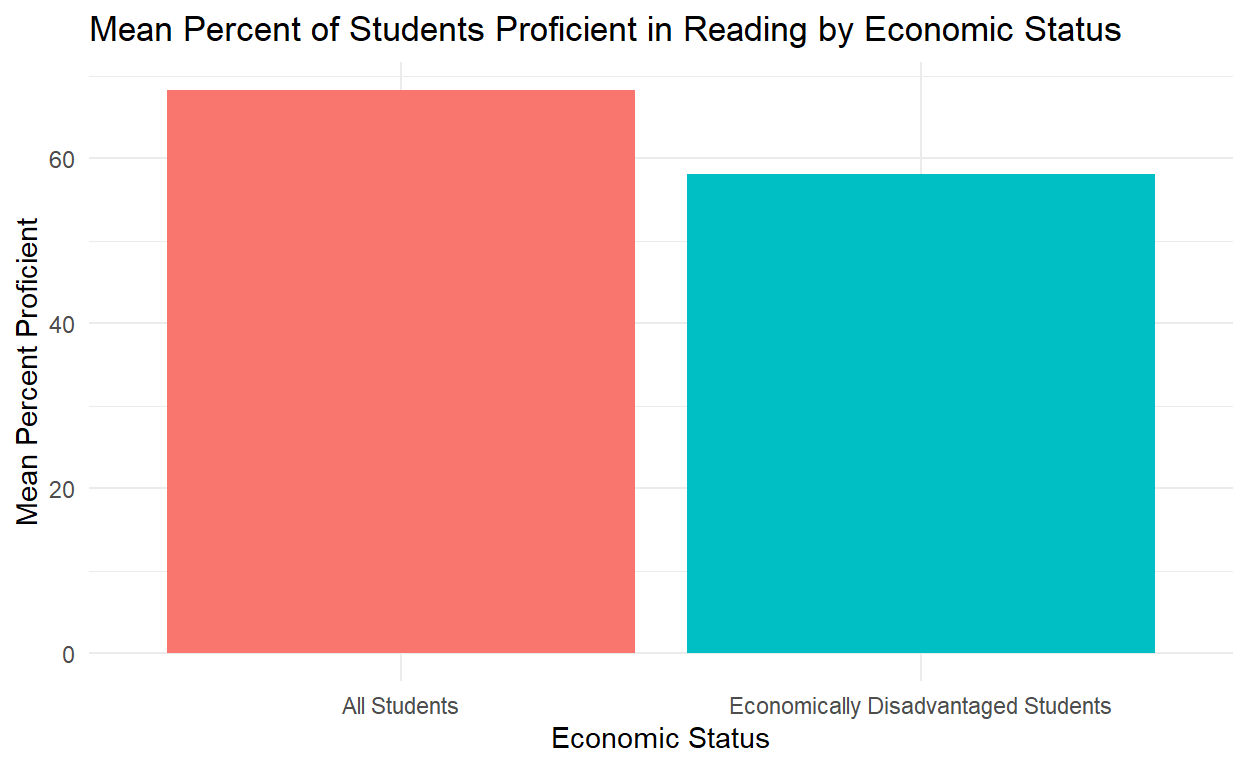
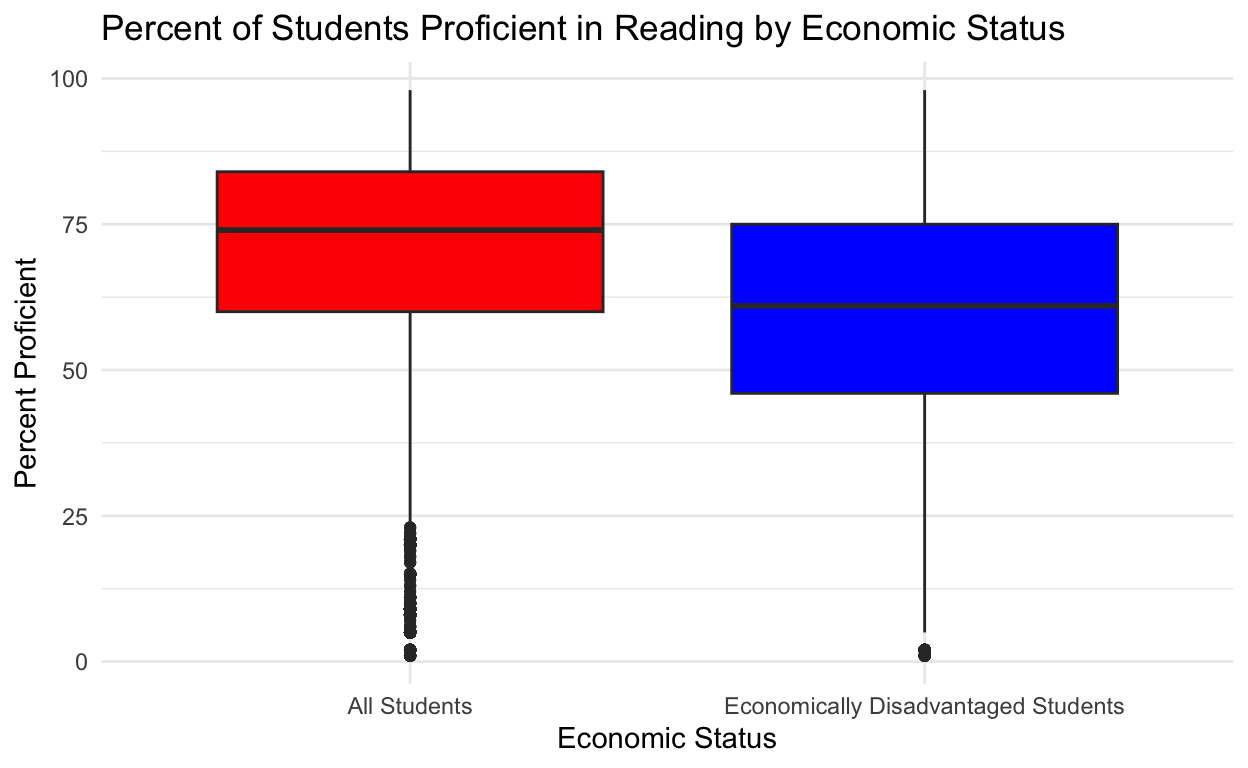
Write-up and visual improvements

diff --git a/_posts/2025-03-08-all-students/all-students.html b/_posts/2025-03-08-all-students/all-students.html
@@ -90,7 +90,7 @@ code span.wa { color: #5e5e5e; font-style: italic; } /* Warning */
   <!--radix_placeholder_meta_tags-->
   <title>All Students</title>
 
-  <meta property="description" itemprop="description" content="Prociency Scores: Compring all students to economically disadvantaged students"/>
+  <meta property="description" itemprop="description" content="Proficiency Scores: Comparing all students to economically disadvantaged students"/>
 
 
   <!--  https://schema.org/Article -->
@@ -101,24 +101,24 @@ code span.wa { color: #5e5e5e; font-style: italic; } /* Warning */
   <!--  https://developers.facebook.com/docs/sharing/webmasters#markup -->
   <meta property="og:title" content="All Students"/>
   <meta property="og:type" content="article"/>
-  <meta property="og:description" content="Prociency Scores: Compring all students to economically disadvantaged students"/>
+  <meta property="og:description" content="Proficiency Scores: Comparing all students to economically disadvantaged students"/>
   <meta property="og:locale" content="en_US"/>
 
   <!--  https://dev.twitter.com/cards/types/summary -->
   <meta property="twitter:card" content="summary"/>
   <meta property="twitter:title" content="All Students"/>
-  <meta property="twitter:description" content="Prociency Scores: Compring all students to economically disadvantaged students"/>
+  <meta property="twitter:description" content="Proficiency Scores: Comparing all students to economically disadvantaged students"/>
 
   <!--/radix_placeholder_meta_tags-->
   <!--radix_placeholder_rmarkdown_metadata-->
 
   <script type="text/json" id="radix-rmarkdown-metadata">
-  {"type":"list","attributes":{"names":{"type":"character","attributes":{},"value":["title","description","author","date","output"]}},"value":[{"type":"character","attributes":{},"value":["All Students"]},{"type":"character","attributes":{},"value":["Prociency Scores: Compring all students to economically disadvantaged students\n"]},{"type":"list","attributes":{},"value":[{"type":"list","attributes":{"names":{"type":"character","attributes":{},"value":["name","url"]}},"value":[{"type":"character","attributes":{},"value":["Aden Bhagwat, Emily Mingus, Erick Njue"]},{"type":"character","attributes":{},"value":["https://adenb0220.github.io/EDLD_652_Final/"]}]}]},{"type":"character","attributes":{},"value":["2025-03-03"]},{"type":"list","attributes":{"names":{"type":"character","attributes":{},"value":["distill::distill_article"]}},"value":[{"type":"list","attributes":{"names":{"type":"character","attributes":{},"value":["self_contained"]}},"value":[{"type":"logical","attributes":{},"value":[false]}]}]}]}
+  {"type":"list","attributes":{"names":{"type":"character","attributes":{},"value":["title","description","author","date","output"]}},"value":[{"type":"character","attributes":{},"value":["All Students"]},{"type":"character","attributes":{},"value":["Proficiency Scores: Comparing all students to economically disadvantaged students\n"]},{"type":"list","attributes":{},"value":[{"type":"list","attributes":{"names":{"type":"character","attributes":{},"value":["name","url"]}},"value":[{"type":"character","attributes":{},"value":["Aden Bhagwat, Emily Mingus, Erick Njue"]},{"type":"character","attributes":{},"value":["https://adenb0220.github.io/EDLD_652_Final/"]}]}]},{"type":"character","attributes":{},"value":["2025-03-03"]},{"type":"list","attributes":{"names":{"type":"character","attributes":{},"value":["distill::distill_article"]}},"value":[{"type":"list","attributes":{"names":{"type":"character","attributes":{},"value":["self_contained"]}},"value":[{"type":"logical","attributes":{},"value":[false]}]}]}]}
   </script>
   <!--/radix_placeholder_rmarkdown_metadata-->
   
   <script type="text/json" id="radix-resource-manifest">
-  {"type":"character","attributes":{},"value":["all-students_files/anchor-4.2.2/anchor.min.js","all-students_files/bowser-1.9.3/bowser.min.js","all-students_files/distill-2.2.21/template.v2.js","all-students_files/figure-html5/unnamed-chunk-2-1.png","all-students_files/figure-html5/unnamed-chunk-3-1.png","all-students_files/figure-html5/unnamed-chunk-4-1.png","all-students_files/figure-html5/unnamed-chunk-5-1.png","all-students_files/header-attrs-2.29/header-attrs.js","all-students_files/jquery-3.6.0/jquery-3.6.0.js","all-students_files/jquery-3.6.0/jquery-3.6.0.min.js","all-students_files/jquery-3.6.0/jquery-3.6.0.min.map","all-students_files/popper-2.6.0/popper.min.js","all-students_files/tippy-6.2.7/tippy-bundle.umd.min.js","all-students_files/tippy-6.2.7/tippy-light-border.css","all-students_files/tippy-6.2.7/tippy.css","all-students_files/tippy-6.2.7/tippy.umd.min.js","all-students_files/webcomponents-2.0.0/webcomponents.js"]}
+  {"type":"character","attributes":{},"value":["all-students_files/anchor-4.2.2/anchor.min.js","all-students_files/bowser-1.9.3/bowser.min.js","all-students_files/distill-2.2.21/template.v2.js","all-students_files/figure-html5/unnamed-chunk-2-1.png","all-students_files/figure-html5/unnamed-chunk-3-1.png","all-students_files/figure-html5/unnamed-chunk-4-1.png","all-students_files/figure-html5/unnamed-chunk-5-1.png","all-students_files/figure-html5/unnamed-chunk-6-1.png","all-students_files/header-attrs-2.29/header-attrs.js","all-students_files/jquery-3.6.0/jquery-3.6.0.js","all-students_files/jquery-3.6.0/jquery-3.6.0.min.js","all-students_files/jquery-3.6.0/jquery-3.6.0.min.map","all-students_files/popper-2.6.0/popper.min.js","all-students_files/tippy-6.2.7/tippy-bundle.umd.min.js","all-students_files/tippy-6.2.7/tippy-light-border.css","all-students_files/tippy-6.2.7/tippy.css","all-students_files/tippy-6.2.7/tippy.umd.min.js","all-students_files/webcomponents-2.0.0/webcomponents.js"]}
   </script>
   <!--radix_placeholder_navigation_in_header-->
   <!--/radix_placeholder_navigation_in_header-->
@@ -1521,7 +1521,7 @@ code span.wa { color: #5e5e5e; font-style: italic; } /* Warning */
 <!--radix_placeholder_front_matter-->
 
 <script id="distill-front-matter" type="text/json">
-{"title":"All Students","description":"Prociency Scores: Compring all students to economically disadvantaged students","authors":[{"author":"Aden Bhagwat, Emily Mingus, Erick Njue","authorURL":"https://adenb0220.github.io/EDLD_652_Final/","affiliation":"&nbsp;","affiliationURL":"#","orcidID":""}],"publishedDate":"2025-03-03T00:00:00.000-08:00","citationText":"Njue, 2025"}
+{"title":"All Students","description":"Proficiency Scores: Comparing all students to economically disadvantaged students","authors":[{"author":"Aden Bhagwat, Emily Mingus, Erick Njue","authorURL":"https://adenb0220.github.io/EDLD_652_Final/","affiliation":"&nbsp;","affiliationURL":"#","orcidID":""}],"publishedDate":"2025-03-03T00:00:00.000-08:00","citationText":"Njue, 2025"}
 </script>
 
 <!--/radix_placeholder_front_matter-->
@@ -1535,7 +1535,7 @@ code span.wa { color: #5e5e5e; font-style: italic; } /* Warning */
 
 <!--radix_placeholder_categories-->
 <!--/radix_placeholder_categories-->
-<p><p>Prociency Scores: Compring all students to economically disadvantaged students</p></p>
+<p><p>Proficiency Scores: Comparing all students to economically disadvantaged students</p></p>
 </div>
 
 <div class="d-byline">
@@ -1548,24 +1548,31 @@ code span.wa { color: #5e5e5e; font-style: italic; } /* Warning */
 <div class="layout-chunk" data-layout="l-body">
 
 </div>
-<p>To answer question 1 that examines the relationship between economic status or Social Economic Status (SES) and the proficiency scores, we first examine the relationship between the proficiency scores of all the students and those of students from economically disadvantaged students. Figure 1 shows the Math proficiency scores of all the students against those of economically disadvantaged students and Figure 2 shows the mean percent of the students in Math by their economic status. The Math proficiency for economically disadvantaged students is lower than that of all students.</p>
-<p><strong>Figure 1</strong></p>
+<p>We began our study by comparing the relationship between Social Economic Status (SES) and the proficiency scores (Math and Reading) for all students as compared to those of economically disadvantaged students. To understand the relationship, we first focused on Math proficiency. We used Figure 1 which is a bar plot showing the Math proficiency scores of all the students against those of economically disadvantaged students.</p>
+<p><strong>Figure 1 </strong></p>
 <div class="layout-chunk" data-layout="l-body">
 <p><img src="all-students_files/figure-html5/unnamed-chunk-2-1.png" width="624" /></p>
 </div>
+<p>As seen in Figure 1, on average, students from All Students are more proficient in Math compared to Economically Disadvantaged Students. The All Students group has a mean proficiency of around 65%, while the Economically Disadvantaged Students group has a mean proficiency closer to 55%. The large difference in the length of the bars highlights the disparity between the two groups in terms of math proficiency.</p>
+<p>To understand the relationship in Math proficiency for All Students group against the Economically Disadvantaged Student group in a better way we used a box plot in Figure 2.</p>
 <p><strong>Figure 2</strong></p>
 <div class="layout-chunk" data-layout="l-body">
 <p><img src="all-students_files/figure-html5/unnamed-chunk-3-1.png" width="624" /></p>
 </div>
+<p>As seen in Figure 2, on average, students in the All Students group perform better than those in the Economically Disadvantaged group with both groups showing variation in proficiency. In the All students group, there are outliers that scored significantly lower than the majority. We concluded, on average, the Math proficiency for economically disadvantaged students is lower than that of all students. We then wanted to understand the relationship in Reading proficiency for All Students group as compared to the Economically Disadvantaged Students group. To examine this relationship, we first used a bar plot to visualize their distribution as presented in Figure 3.</p>
 <p>Figure 3 shows the Reading proficiency scores of all the students against those of economically disadvantaged students and Figure 4 shows shows the mean percent of the students in Reading by their economic status. All students perform better than economically disadvantaged students.</p>
-<strong>Figure 3</strong>
+<p><strong>Figure 3</strong></p>
 <div class="layout-chunk" data-layout="l-body">
 <p><img src="all-students_files/figure-html5/unnamed-chunk-4-1.png" width="624" /></p>
 </div>
+<p>As figure 3 shows, on average, All Students perform better in reading than those from economically disadvantaged backgrounds. The All Students group has a mean proficiency above 60%, while the Economically Disadvantaged Students group is slightly above 50%. This suggests a persistent achievement gap between the two groups.The proficiency gap appears similar to the math proficiency although the reading scores might be slightly higher than math scores for both groups.To understand the relationship between reading proficiency and economic status in a deeper sense, we used a box plot as shown in Figure 4.</p>
 <p><strong>Figure 4</strong></p>
 <div class="layout-chunk" data-layout="l-body">
 <p><img src="all-students_files/figure-html5/unnamed-chunk-5-1.png" width="624" /></p>
 </div>
+<p>Figure 4 suggest that, on average, the All Students group perform better in reading compared to Economically Disadvantaged Students where the All Students group having slightly higher overall scores. The Economically Disadvantaged Students group has a lower minimum score, meaning some students in this category are performing much lower than their peers. There seem to be more outliers in the All Students group than the Economically Disadvantaged Students group.</p>
+<p>We concluded that there is an achievement gap that exists between Math and Reading proficiencies in both groups where Economically Disadvantaged Students consistently score lower than the All Students group possibly suggesting that economic status plays a significant role in academic performance. There is a greater score variability among the Economically Disadvantaged Students group where some students in this group perform well, but a significant number struggle, as seen in the outliers. The proficiency gap in reading mirrors the gap in math, suggesting that the issue is not subject-specific.</p>
+<p>However, before we made some further conclusions and implications, we wanted to know if the disparities seen in the results above were consistent across the grade levels. leading us to examine the relationship between SES and proficiency score in different grade levels.</p>
 <div class="sourceCode" id="cb1"><pre class="sourceCode r distill-force-highlighting-css"><code class="sourceCode r"></code></pre></div>
 <!--radix_placeholder_article_footer-->
 <!--/radix_placeholder_article_footer-->

diff --git a/docs/posts/2025-03-08-all-students/index.html b/docs/posts/2025-03-08-all-students/index.html
@@ -90,7 +90,7 @@ code span.wa { color: #5e5e5e; font-style: italic; } /* Warning */
   <!--radix_placeholder_meta_tags-->
 <title>Final Project: All Students</title>
 
-<meta property="description" itemprop="description" content="Prociency Scores: Compring all students to economically disadvantaged students"/>
+<meta property="description" itemprop="description" content="Proficiency Scores: Comparing all students to economically disadvantaged students"/>
 
 
 <!--  https://schema.org/Article -->
@@ -101,25 +101,25 @@ code span.wa { color: #5e5e5e; font-style: italic; } /* Warning */
 <!--  https://developers.facebook.com/docs/sharing/webmasters#markup -->
 <meta property="og:title" content="Final Project: All Students"/>
 <meta property="og:type" content="article"/>
-<meta property="og:description" content="Prociency Scores: Compring all students to economically disadvantaged students"/>
+<meta property="og:description" content="Proficiency Scores: Comparing all students to economically disadvantaged students"/>
 <meta property="og:locale" content="en_US"/>
 <meta property="og:site_name" content="Final Project"/>
 
 <!--  https://dev.twitter.com/cards/types/summary -->
 <meta property="twitter:card" content="summary"/>
 <meta property="twitter:title" content="Final Project: All Students"/>
-<meta property="twitter:description" content="Prociency Scores: Compring all students to economically disadvantaged students"/>
+<meta property="twitter:description" content="Proficiency Scores: Comparing all students to economically disadvantaged students"/>
 
 <!--/radix_placeholder_meta_tags-->
   <!--radix_placeholder_rmarkdown_metadata-->
 
 <script type="text/json" id="radix-rmarkdown-metadata">
-{"type":"list","attributes":{"names":{"type":"character","attributes":{},"value":["title","description","author","date","output"]}},"value":[{"type":"character","attributes":{},"value":["All Students"]},{"type":"character","attributes":{},"value":["Prociency Scores: Compring all students to economically disadvantaged students"]},{"type":"list","attributes":{},"value":[{"type":"list","attributes":{"names":{"type":"character","attributes":{},"value":["name","url"]}},"value":[{"type":"character","attributes":{},"value":["Aden Bhagwat, Emily Mingus, Erick Njue"]},{"type":"character","attributes":{},"value":["https://adenb0220.github.io/EDLD_652_Final/"]}]}]},{"type":"character","attributes":{},"value":["2025-03-03"]},{"type":"list","attributes":{"names":{"type":"character","attributes":{},"value":["distill::distill_article"]}},"value":[{"type":"list","attributes":{"names":{"type":"character","attributes":{},"value":["self_contained"]}},"value":[{"type":"logical","attributes":{},"value":[false]}]}]}]}
+{"type":"list","attributes":{"names":{"type":"character","attributes":{},"value":["title","description","author","date","output"]}},"value":[{"type":"character","attributes":{},"value":["All Students"]},{"type":"character","attributes":{},"value":["Proficiency Scores: Comparing all students to economically disadvantaged students"]},{"type":"list","attributes":{},"value":[{"type":"list","attributes":{"names":{"type":"character","attributes":{},"value":["name","url"]}},"value":[{"type":"character","attributes":{},"value":["Aden Bhagwat, Emily Mingus, Erick Njue"]},{"type":"character","attributes":{},"value":["https://adenb0220.github.io/EDLD_652_Final/"]}]}]},{"type":"character","attributes":{},"value":["2025-03-03"]},{"type":"list","attributes":{"names":{"type":"character","attributes":{},"value":["distill::distill_article"]}},"value":[{"type":"list","attributes":{"names":{"type":"character","attributes":{},"value":["self_contained"]}},"value":[{"type":"logical","attributes":{},"value":[false]}]}]}]}
 </script>
 <!--/radix_placeholder_rmarkdown_metadata-->
   
   <script type="text/json" id="radix-resource-manifest">
-  {"type":"character","attributes":{},"value":["all-students_files/anchor-4.2.2/anchor.min.js","all-students_files/bowser-1.9.3/bowser.min.js","all-students_files/distill-2.2.21/template.v2.js","all-students_files/figure-html5/unnamed-chunk-2-1.png","all-students_files/figure-html5/unnamed-chunk-3-1.png","all-students_files/figure-html5/unnamed-chunk-4-1.png","all-students_files/figure-html5/unnamed-chunk-5-1.png","all-students_files/header-attrs-2.29/header-attrs.js","all-students_files/jquery-3.6.0/jquery-3.6.0.js","all-students_files/jquery-3.6.0/jquery-3.6.0.min.js","all-students_files/jquery-3.6.0/jquery-3.6.0.min.map","all-students_files/popper-2.6.0/popper.min.js","all-students_files/tippy-6.2.7/tippy-bundle.umd.min.js","all-students_files/tippy-6.2.7/tippy-light-border.css","all-students_files/tippy-6.2.7/tippy.css","all-students_files/tippy-6.2.7/tippy.umd.min.js","all-students_files/webcomponents-2.0.0/webcomponents.js"]}
+  {"type":"character","attributes":{},"value":["all-students_files/anchor-4.2.2/anchor.min.js","all-students_files/bowser-1.9.3/bowser.min.js","all-students_files/distill-2.2.21/template.v2.js","all-students_files/figure-html5/unnamed-chunk-2-1.png","all-students_files/figure-html5/unnamed-chunk-3-1.png","all-students_files/figure-html5/unnamed-chunk-4-1.png","all-students_files/figure-html5/unnamed-chunk-5-1.png","all-students_files/figure-html5/unnamed-chunk-6-1.png","all-students_files/header-attrs-2.29/header-attrs.js","all-students_files/jquery-3.6.0/jquery-3.6.0.js","all-students_files/jquery-3.6.0/jquery-3.6.0.min.js","all-students_files/jquery-3.6.0/jquery-3.6.0.min.map","all-students_files/popper-2.6.0/popper.min.js","all-students_files/tippy-6.2.7/tippy-bundle.umd.min.js","all-students_files/tippy-6.2.7/tippy-light-border.css","all-students_files/tippy-6.2.7/tippy.css","all-students_files/tippy-6.2.7/tippy.umd.min.js","all-students_files/webcomponents-2.0.0/webcomponents.js"]}
   </script>
   <!--radix_placeholder_navigation_in_header-->
 <meta name="distill:offset" content="../.."/>
@@ -2438,7 +2438,7 @@ d-appendix d-footnote-list a.footnote-backlink {
 <!--radix_placeholder_front_matter-->
 
 <script id="distill-front-matter" type="text/json">
-{"title":"All Students","description":"Prociency Scores: Compring all students to economically disadvantaged students","authors":[{"author":"Aden Bhagwat, Emily Mingus, Erick Njue","authorURL":"https://adenb0220.github.io/EDLD_652_Final/","affiliation":"&nbsp;","affiliationURL":"#","orcidID":""}],"publishedDate":"2025-03-03T00:00:00.000-08:00","citationText":"Njue, 2025"}
+{"title":"All Students","description":"Proficiency Scores: Comparing all students to economically disadvantaged students","authors":[{"author":"Aden Bhagwat, Emily Mingus, Erick Njue","authorURL":"https://adenb0220.github.io/EDLD_652_Final/","affiliation":"&nbsp;","affiliationURL":"#","orcidID":""}],"publishedDate":"2025-03-03T00:00:00.000-08:00","citationText":"Njue, 2025"}
 </script>
 
 <!--/radix_placeholder_front_matter-->
@@ -2465,7 +2465,7 @@ d-appendix d-footnote-list a.footnote-backlink {
 
 <!--radix_placeholder_categories-->
 <!--/radix_placeholder_categories-->
-<p><p>Prociency Scores: Compring all students to economically disadvantaged students</p></p>
+<p><p>Proficiency Scores: Comparing all students to economically disadvantaged students</p></p>
 </div>
 
 <div class="d-byline">
@@ -2478,24 +2478,31 @@ d-appendix d-footnote-list a.footnote-backlink {
 <div class="layout-chunk" data-layout="l-body">
 
 </div>
-<p>To answer question 1 that examines the relationship between economic status or Social Economic Status (SES) and the proficiency scores, we first examine the relationship between the proficiency scores of all the students and those of students from economically disadvantaged students. Figure 1 shows the Math proficiency scores of all the students against those of economically disadvantaged students and Figure 2 shows the mean percent of the students in Math by their economic status. The Math proficiency for economically disadvantaged students is lower than that of all students.</p>
-<p><strong>Figure 1</strong></p>
+<p>We began our study by comparing the relationship between Social Economic Status (SES) and the proficiency scores (Math and Reading) for all students as compared to those of economically disadvantaged students. To understand the relationship, we first focused on Math proficiency. We used Figure 1 which is a bar plot showing the Math proficiency scores of all the students against those of economically disadvantaged students.</p>
+<p><strong>Figure 1 </strong></p>
 <div class="layout-chunk" data-layout="l-body">
 <p><img src="all-students_files/figure-html5/unnamed-chunk-2-1.png" width="624" /></p>
 </div>
+<p>As seen in Figure 1, on average, students from All Students are more proficient in Math compared to Economically Disadvantaged Students. The All Students group has a mean proficiency of around 65%, while the Economically Disadvantaged Students group has a mean proficiency closer to 55%. The large difference in the length of the bars highlights the disparity between the two groups in terms of math proficiency.</p>
+<p>To understand the relationship in Math proficiency for All Students group against the Economically Disadvantaged Student group in a better way we used a box plot in Figure 2.</p>
 <p><strong>Figure 2</strong></p>
 <div class="layout-chunk" data-layout="l-body">
 <p><img src="all-students_files/figure-html5/unnamed-chunk-3-1.png" width="624" /></p>
 </div>
+<p>As seen in Figure 2, on average, students in the All Students group perform better than those in the Economically Disadvantaged group with both groups showing variation in proficiency. In the All students group, there are outliers that scored significantly lower than the majority. We concluded, on average, the Math proficiency for economically disadvantaged students is lower than that of all students. We then wanted to understand the relationship in Reading proficiency for All Students group as compared to the Economically Disadvantaged Students group. To examine this relationship, we first used a bar plot to visualize their distribution as presented in Figure 3.</p>
 <p>Figure 3 shows the Reading proficiency scores of all the students against those of economically disadvantaged students and Figure 4 shows shows the mean percent of the students in Reading by their economic status. All students perform better than economically disadvantaged students.</p>
-<strong>Figure 3</strong>
+<p><strong>Figure 3</strong></p>
 <div class="layout-chunk" data-layout="l-body">
 <p><img src="all-students_files/figure-html5/unnamed-chunk-4-1.png" width="624" /></p>
 </div>
+<p>As figure 3 shows, on average, All Students perform better in reading than those from economically disadvantaged backgrounds. The All Students group has a mean proficiency above 60%, while the Economically Disadvantaged Students group is slightly above 50%. This suggests a persistent achievement gap between the two groups.The proficiency gap appears similar to the math proficiency although the reading scores might be slightly higher than math scores for both groups.To understand the relationship between reading proficiency and economic status in a deeper sense, we used a box plot as shown in Figure 4.</p>
 <p><strong>Figure 4</strong></p>
 <div class="layout-chunk" data-layout="l-body">
 <p><img src="all-students_files/figure-html5/unnamed-chunk-5-1.png" width="624" /></p>
 </div>
+<p>Figure 4 suggest that, on average, the All Students group perform better in reading compared to Economically Disadvantaged Students where the All Students group having slightly higher overall scores. The Economically Disadvantaged Students group has a lower minimum score, meaning some students in this category are performing much lower than their peers. There seem to be more outliers in the All Students group than the Economically Disadvantaged Students group.</p>
+<p>We concluded that there is an achievement gap that exists between Math and Reading proficiencies in both groups where Economically Disadvantaged Students consistently score lower than the All Students group possibly suggesting that economic status plays a significant role in academic performance. There is a greater score variability among the Economically Disadvantaged Students group where some students in this group perform well, but a significant number struggle, as seen in the outliers. The proficiency gap in reading mirrors the gap in math, suggesting that the issue is not subject-specific.</p>
+<p>However, before we made some further conclusions and implications, we wanted to know if the disparities seen in the results above were consistent across the grade levels. leading us to examine the relationship between SES and proficiency score in different grade levels.</p>
 <div class="sourceCode" id="cb1"><pre class="sourceCode r distill-force-highlighting-css"><code class="sourceCode r"></code></pre></div>
 <!--radix_placeholder_article_footer-->
 <!--/radix_placeholder_article_footer-->

diff --git a/docs/about.html b/docs/about.html
@@ -29,7 +29,7 @@
   <!--  https://schema.org/Article -->
   <meta property="article:published" itemprop="datePublished" content="2025-03-04"/>
   <meta property="article:created" itemprop="dateCreated" content="2025-03-04"/>
-  <meta name="article:author" content="Aden Bhagwat, Emily Mingus, Erick Ndjue"/>
+  <meta name="article:author" content="Aden Bhagwat, Emily Mingus, Erick Njue"/>
 
   <!--  https://developers.facebook.com/docs/sharing/webmasters#markup -->
   <meta property="og:title" content="Final Project: About Our Project"/>
@@ -47,7 +47,7 @@
   <!--radix_placeholder_rmarkdown_metadata-->
 
   <script type="text/json" id="radix-rmarkdown-metadata">
-  {"type":"list","attributes":{"names":{"type":"character","attributes":{},"value":["title","description","author","date","output"]}},"value":[{"type":"character","attributes":{},"value":["About Our Project"]},{"type":"character","attributes":{},"value":["This research explores trends in student proficiency in \nreading/language arts (RLA) and math across U.S. school districts, \nfocusing on the impact of socioeconomic status (SES). \nWe address data inconsistencies and missingness while \npreparing the dataset for analysis.\n"]},{"type":"list","attributes":{},"value":[{"type":"list","attributes":{"names":{"type":"character","attributes":{},"value":["name","url","affiliation"]}},"value":[{"type":"character","attributes":{},"value":["Aden Bhagwat, Emily Mingus, Erick Ndjue"]},{"type":"character","attributes":{},"value":["https://adenb0220.github.io/EDLD_652_Final/"]},{"type":"character","attributes":{},"value":["University of Oregon"]}]}]},{"type":"character","attributes":{},"value":["03-04-2025"]},{"type":"list","attributes":{"names":{"type":"character","attributes":{},"value":["distill::distill_article"]}},"value":[{"type":"list","attributes":{"names":{"type":"character","attributes":{},"value":["self_contained"]}},"value":[{"type":"logical","attributes":{},"value":[false]}]}]}]}
+  {"type":"list","attributes":{"names":{"type":"character","attributes":{},"value":["title","description","author","date","output"]}},"value":[{"type":"character","attributes":{},"value":["About Our Project"]},{"type":"character","attributes":{},"value":["This research explores trends in student proficiency in \nreading/language arts (RLA) and math across U.S. school districts, \nfocusing on the impact of socioeconomic status (SES). \nWe address data inconsistencies and missingness while \npreparing the dataset for analysis.\n"]},{"type":"list","attributes":{},"value":[{"type":"list","attributes":{"names":{"type":"character","attributes":{},"value":["name","url","affiliation"]}},"value":[{"type":"character","attributes":{},"value":["Aden Bhagwat, Emily Mingus, Erick Njue"]},{"type":"character","attributes":{},"value":["https://adenb0220.github.io/EDLD_652_Final/"]},{"type":"character","attributes":{},"value":["University of Oregon"]}]}]},{"type":"character","attributes":{},"value":["03-04-2025"]},{"type":"list","attributes":{"names":{"type":"character","attributes":{},"value":["distill::distill_article"]}},"value":[{"type":"list","attributes":{"names":{"type":"character","attributes":{},"value":["self_contained"]}},"value":[{"type":"logical","attributes":{},"value":[false]}]}]}]}
   </script>
   <!--/radix_placeholder_rmarkdown_metadata-->
   <!--radix_placeholder_navigation_in_header-->
@@ -2346,7 +2346,7 @@
     color: var(--hover-color, white);
   }</style>
   <!--/radix_placeholder_distill-->
-  <script src="site_libs/header-attrs-2.28/header-attrs.js"></script>
+  <script src="site_libs/header-attrs-2.29/header-attrs.js"></script>
   <script src="site_libs/popper-2.6.0/popper.min.js"></script>
   <link href="site_libs/tippy-6.2.7/tippy.css" rel="stylesheet" />
   <link href="site_libs/tippy-6.2.7/tippy-light-border.css" rel="stylesheet" />
@@ -2366,7 +2366,7 @@
 <!--radix_placeholder_front_matter-->
 
 <script id="distill-front-matter" type="text/json">
-{"title":"About Our Project","description":"This research explores trends in student proficiency in \nreading/language arts (RLA) and math across U.S. school districts, \nfocusing on the impact of socioeconomic status (SES). \nWe address data inconsistencies and missingness while \npreparing the dataset for analysis.","authors":[{"author":"Aden Bhagwat, Emily Mingus, Erick Ndjue","authorURL":"https://adenb0220.github.io/EDLD_652_Final/","affiliation":"University of Oregon","affiliationURL":"#","orcidID":""}],"publishedDate":"2025-03-04T00:00:00.000-08:00","citationText":"Ndjue, 2025"}
+{"title":"About Our Project","description":"This research explores trends in student proficiency in \nreading/language arts (RLA) and math across U.S. school districts, \nfocusing on the impact of socioeconomic status (SES). \nWe address data inconsistencies and missingness while \npreparing the dataset for analysis.","authors":[{"author":"Aden Bhagwat, Emily Mingus, Erick Njue","authorURL":"https://adenb0220.github.io/EDLD_652_Final/","affiliation":"University of Oregon","affiliationURL":"#","orcidID":""}],"publishedDate":"2025-03-04T00:00:00.000-08:00","citationText":"Njue, 2025"}
 </script>
 
 <!--/radix_placeholder_front_matter-->
@@ -2401,7 +2401,7 @@ preparing the dataset for analysis.</p></p>
 </div>
 
 <div class="d-byline">
-  Aden Bhagwat, Emily Mingus, Erick Ndjue <a href="https://adenb0220.github.io/EDLD_652_Final/" class="uri">https://adenb0220.github.io/EDLD_652_Final/</a> (University of Oregon)
+  Aden Bhagwat, Emily Mingus, Erick Njue <a href="https://adenb0220.github.io/EDLD_652_Final/" class="uri">https://adenb0220.github.io/EDLD_652_Final/</a> (University of Oregon)
   
 <br/>03-04-2025
 </div>

diff --git a/docs/index.html b/docs/index.html
@@ -2406,7 +2406,7 @@ code span.wa { color: #5e5e5e; font-style: italic; } /* Warning */
     color: var(--hover-color, white);
   }</style>
   <!--/radix_placeholder_distill-->
-  <script src="site_libs/header-attrs-2.28/header-attrs.js"></script>
+  <script src="site_libs/header-attrs-2.29/header-attrs.js"></script>
   <script src="site_libs/popper-2.6.0/popper.min.js"></script>
   <link href="site_libs/tippy-6.2.7/tippy.css" rel="stylesheet" />
   <link href="site_libs/tippy-6.2.7/tippy-light-border.css" rel="stylesheet" />
@@ -2591,7 +2591,9 @@ function init_posts_list() {
 <div class="dt-author">Aden Bhagwat, Emily Mingus, Erick Ndjue</div>
 </div>
 </div>
-<div class="thumbnail"></div>
+<div class="thumbnail">
+<img/>
+</div>
 <div class="description">
 <h2>Analyzing Educational Proficiency Data</h2>
 <div class="dt-tags"></div>
@@ -2616,7 +2618,7 @@ preparing the dataset for analysis.</p>
 <div class="description">
 <h2>All Students</h2>
 <div class="dt-tags"></div>
-<p>Prociency Scores: Compring all students to economically disadvantaged students</p>
+<p>Proficiency Scores: Comparing all students to economically disadvantaged students</p>
 </div>
 </a>
 <a href="posts/2025-02-26-post-2/" class="post-preview">
